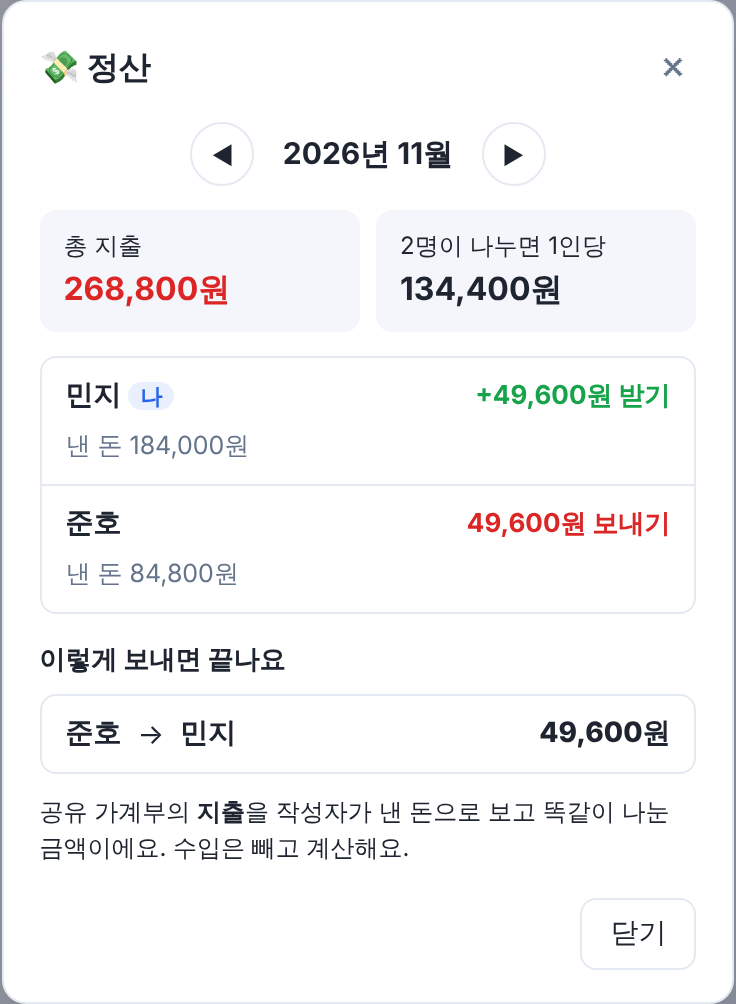
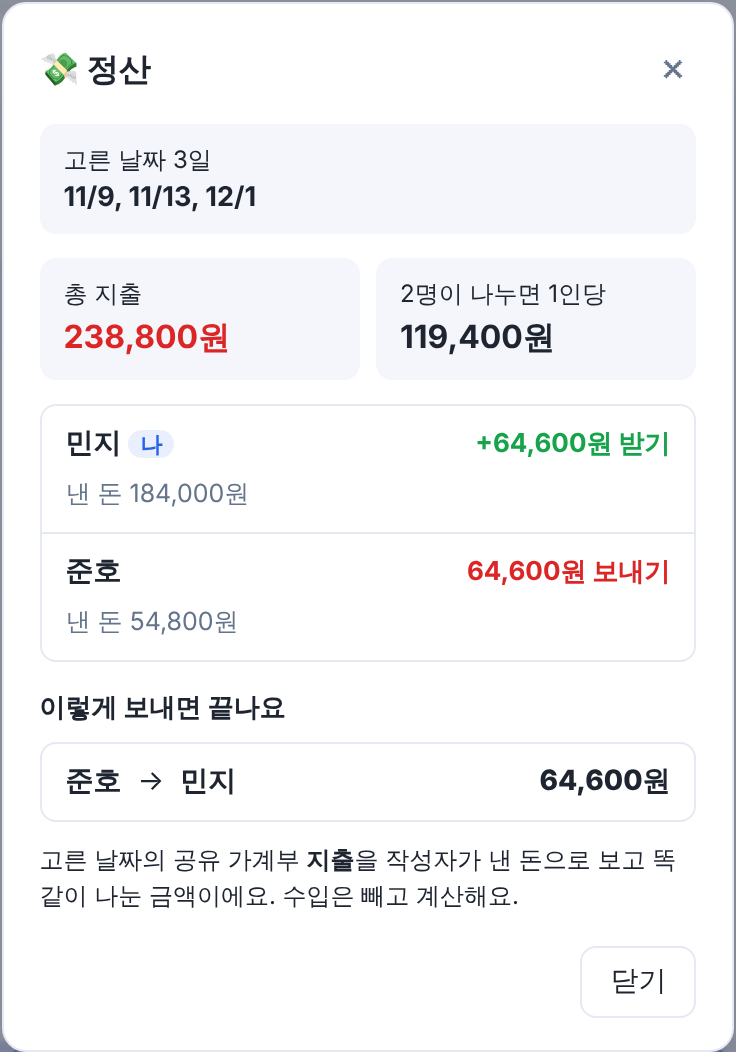
feat: 정산을 달력에서 날짜 골라서 하도록 변경
- [💸 정산] 버튼을 캘린더 바로 위로, 누르면 날짜 선택 모드 (가계부 보기로 전환, 눌러서 ✔ 체크, 다른 달도 가능)
- 하단 바: N일 선택 · 지출 합계, [정산하기] → 고른 날짜의 지출만으로 정산 결과
- 고른 날짜는 저장하지 않음, DB 변경 없음
- 서비스 소개·README 문구와 정산 스크린샷 갱신

Claude-Session: https://claude.ai/code/session_01Q8h5sWYYD7dknJRFNMgfCv

diff --git a/src/main/resources/static/app/pages/ledger/ledger.page.js b/src/main/resources/static/app/pages/ledger/ledger.page.js
@@ -155,6 +155,8 @@ export default function LedgerPage(options = {}) {
         editingEventId: null,
         viewMode: localStorage.getItem(VIEW_MODE_KEY) === 'list' ? 'list' : 'calendar',
         mode: localStorage.getItem(MODE_KEY) === 'schedule' ? 'schedule' : 'money',
+        // 💸 정산 날짜 선택 (공유 캘린더 전용, 저장하지 않음)
+        settle: { active: false, picked: new Map() }, // picked: { 'YYYY-MM-DD': [그날 지출 tx] }
     };
 
     // 🔗 다른 화면(재무 대시보드 > 자산 내역)에서 '#/calendar?date=YYYY-MM-DD&edit=ID'로 들어오면
@@ -274,6 +276,7 @@ export default function LedgerPage(options = {}) {
         if (isSelected) classes.push('ledger-cell--selected');
         if (inSelectedRange) classes.push('ledger-cell--range-selected');
         if (isToday) classes.push('ledger-cell--today');
+        if (state.settle.active && state.settle.picked.has(dateStr)) classes.push('ledger-cell--settle-picked');
         if (holidayName) classes.push('ledger-cell--holiday');
         else if (weekday === 0) classes.push('ledger-cell--sunday');
         else if (weekday === 6) classes.push('ledger-cell--saturday');
@@ -389,7 +392,7 @@ export default function LedgerPage(options = {}) {
             else if (weekday === 6) dateClasses.push('ledger-list-date--saturday');
 
             return `
-            <div class="ledger-list-group${isSelected ? ' is-selected' : ''}" data-date="${dateStr}">
+            <div class="ledger-list-group${isSelected ? ' is-selected' : ''}${state.settle.active && state.settle.picked.has(dateStr) ? ' is-settle-picked' : ''}" data-date="${dateStr}">
                 <div class="ledger-list-date-row">
                     <span class="${dateClasses.join(' ')}">${dayNum}일 (${weekdayName})${holidayName ? ` · ${holidayName}` : ''}</span>
                     <span class="ledger-list-date-total">
@@ -593,6 +596,20 @@ export default function LedgerPage(options = {}) {
         render() {
             return `
             <section class="ledger-page">
+                ${isShared ? `
+                <div class="settle-start-row">
+                    <button type="button" class="btn btn-sm btn-pill" id="settleStartBtn">💸 정산</button>
+                </div>
+                <div class="settle-bar" id="settleBar" hidden>
+                    <div class="settle-bar-text">
+                        <b>정산할 날짜를 골라주세요</b>
+                        <span id="settleBarInfo">0일 선택</span>
+                    </div>
+                    <div class="settle-bar-btns">
+                        <button type="button" class="btn btn-ghost btn-sm" id="settleCancelBtn">끝내기</button>
+                        <button type="button" class="btn btn-primary btn-sm" id="settleRunBtn" disabled>정산하기</button>
+                    </div>
+                </div>` : ''}
                 <div class="card">
                     <div class="ledger-header">
                         <div class="ledger-month-nav">
@@ -722,9 +739,67 @@ export default function LedgerPage(options = {}) {
                     });
                 } else {
                     container.querySelectorAll('[data-date]').forEach(el => {
-                        el.addEventListener('click', () => selectDate(el.dataset.date));
+                        el.addEventListener('click', () => {
+                            if (state.settle.active) toggleSettleDate(el.dataset.date);
+                            else selectDate(el.dataset.date);
+                        });
                     });
                 }
+            }
+
+            /* ---------------- 💸 정산 날짜 선택 (공유 캘린더) ---------------- */
+
+            const expensesOn = (dateStr) => (state.byDate[dateStr] || []).filter(tx => tx.type === 'EXPENSE');
+
+            function updateSettleBar() {
+                if (!isShared) return;
+                const { active, picked } = state.settle;
+                $('settleBar').hidden = !active;
+                $('settleStartBtn').hidden = active;
+                document.body.classList.toggle('is-settle-selecting', active);
+                if (!active) return;
+                let total = 0;
+                picked.forEach(list => list.forEach(tx => { total += Number(tx.amount) || 0; }));
+                $('settleBarInfo').innerHTML = picked.size
+                    ? `${picked.size}일 선택 · 지출 <b class="is-expense">${won(total)}</b>`
+                    : '0일 선택';
+                $('settleRunBtn').disabled = picked.size === 0;
+            }
+
+            function toggleSettleDate(dateStr) {
+                const { picked } = state.settle;
+                if (picked.has(dateStr)) picked.delete(dateStr);
+                else picked.set(dateStr, expensesOn(dateStr));
+                renderCalendar();
+                updateSettleBar();
+            }
+
+            function startSettle() {
+                // 정산은 가계부 기준 → 일정 보기였으면 가계부로
+                if (isSchedule()) $('modeSwitch').querySelector('button[data-mode="money"]').click();
+                state.settle.active = true;
+                state.settle.picked = new Map();
+                renderCalendar();
+                updateSettleBar();
+            }
+
+            function endSettle() {
+                state.settle.active = false;
+                state.settle.picked = new Map();
+                renderCalendar();
+                updateSettleBar();
+            }
+
+            if (isShared) {
+                $('settleStartBtn').addEventListener('click', startSettle);
+                $('settleCancelBtn').addEventListener('click', endSettle);
+                $('settleRunBtn').addEventListener('click', () => {
+                    const dates = [...state.settle.picked.keys()].sort();
+                    const transactions = dates.flatMap(d => state.settle.picked.get(d));
+                    options.onSettle?.({ dates, transactions });
+                });
+                // 다른 화면으로 나가면 선택 모드 표시(하단 바 여백) 해제
+                window.addEventListener('hashchange', () => document.body.classList.remove('is-settle-selecting'), { once: true });
             }
 
             /* ---------------- 가계부 내역을 다른 캘린더로 복사 ---------------- */
@@ -1219,6 +1294,12 @@ export default function LedgerPage(options = {}) {
 
             async function refresh() {
                 await Promise.all([loadMonth(), loadEvents()]);
+                // 정산 선택 중이면 지금 달에 고른 날짜의 지출을 최신 내역으로 갱신
+                const monthPrefix = `${state.year}-${pad2(state.month)}-`;
+                state.settle.picked.forEach((_, d) => {
+                    if (d.startsWith(monthPrefix)) state.settle.picked.set(d, expensesOn(d));
+                });
+                if (state.settle.active) updateSettleBar();
                 renderMonthSummary();
                 renderCalendar();
                 renderDayPanel();
@@ -1259,6 +1340,11 @@ export default function LedgerPage(options = {}) {
                 btn.addEventListener('click', () => {
                     const next = btn.dataset.mode === 'schedule' ? 'schedule' : 'money';
                     if (state.mode === next) return;
+                    if (state.settle.active && next === 'schedule') {
+                        state.settle.active = false;
+                        state.settle.picked = new Map();
+                        updateSettleBar();
+                    }
                     state.mode = next;
                     state.selectedRangeStart = null;
                     state.selectedRangeEnd = null;

diff --git a/src/main/resources/static/assets/css/money.css b/src/main/resources/static/assets/css/money.css
@@ -1007,10 +1007,30 @@ html.dark .ledger-list-date--saturday { color: #93c5fd; }
 .shared-members-modal { width: min(460px, 94vw); }
 
 /* 💸 정산 */
-.shared-header-btns { display: flex; flex-wrap: wrap; gap: 8px; }
+.settle-start-row { display: flex; justify-content: flex-end; margin-bottom: -8px; }
+.settle-bar {
+    position: fixed; left: 50%; bottom: max(12px, env(safe-area-inset-bottom)); transform: translateX(-50%);
+    z-index: 60; width: min(560px, calc(100vw - 24px));
+    display: flex; align-items: center; justify-content: space-between; gap: 10px;
+    padding: 10px 12px 10px 16px; border-radius: 14px;
+    background: var(--bg-elevated); border: 1px solid var(--brand); box-shadow: var(--shadow-md);
+}
+.settle-bar[hidden] { display: none; }
+.settle-bar-text { display: flex; flex-direction: column; gap: 2px; min-width: 0; font-size: 13px; }
+.settle-bar-text > b { font-size: 13.5px; }
+.settle-bar-btns { display: flex; gap: 6px; flex: none; }
+body.is-settle-selecting .ledger-page { padding-bottom: 80px; }
+.ledger-cell--settle-picked, .ledger-list-group.is-settle-picked {
+    position: relative; background: rgba(22, 163, 74, .12); border-color: #16a34a; box-shadow: 0 0 0 1px #16a34a inset;
+}
+.ledger-cell--settle-picked::after {
+    content: '✔'; position: absolute; top: 3px; right: 4px; font-size: 11px; font-weight: 800; color: #16a34a;
+}
+html.dark .ledger-cell--settle-picked, html.dark .ledger-list-group.is-settle-picked { background: rgba(22, 163, 74, .22); }
+.settle-dates { display: flex; flex-direction: column; gap: 2px; margin-bottom: 12px; padding: 10px 12px; border-radius: var(--radius-sm); background: var(--bg); font-size: 13.5px; word-break: keep-all; }
+.settle-dates .hint { font-size: 12px; }
 .shared-settle-modal { width: min(460px, 94vw); }
 .shared-settle-modal .history-modal-body { max-height: min(66vh, 600px); overflow-y: auto; }
-.settle-nav { display: flex; align-items: center; justify-content: center; gap: 14px; margin-bottom: 12px; font-size: 15px; }
 .settle-empty { text-align: center; padding: 18px 0; }
 .settle-summary { display: grid; grid-template-columns: 1fr 1fr; gap: 8px; margin-bottom: 12px; }
 .settle-summary > div { display: flex; flex-direction: column; gap: 2px; padding: 10px 12px; border-radius: var(--radius-sm); background: var(--bg); }

diff --git a/src/main/resources/static/app/pages/about/about.page.js b/src/main/resources/static/app/pages/about/about.page.js
@@ -42,7 +42,7 @@ export default function AboutPage() {
             <div class="about-feature-text">
               <h3>👨👩👧 공유 캘린더</h3>
               <p>가족·연인·룸메이트와 가계부와 일정을 함께 쓰는 캘린더를 만들어보세요. 친구를 초대하면 수락한 사람끼리 같은 달력을 보고, 내역마다 누가 썼는지 이름표가 붙습니다. 내역은 꾹 눌러 끌어서 순서를 바꿀 수 있어요.</p>
-              <p>💸 [정산]을 누르면 그 달 지출을 누가 얼마 냈는지 모아서, 똑같이 나누려면 누가 누구에게 얼마를 보내면 되는지 바로 계산해줘요.</p>
+              <p>💸 [정산]을 누르고 달력에서 정산할 날짜를 고르면(여행 기간처럼 여러 날, 다른 달도 가능), 그날들 지출을 누가 얼마 냈는지 모아서 똑같이 나누려면 누가 누구에게 얼마를 보내면 되는지 바로 계산해줘요.</p>
               <p>만든 사람은 👑 관리자로 멤버 초대·캘린더 이름 변경·삭제를 맡고, 관리자 권한을 다른 멤버에게 넘길 수도 있어요. 누구나 언제든 나갈 수 있고, 내 개인 가계부 통계와는 따로 계산됩니다.</p>
             </div>
             <div class="about-feature-imgs">

diff --git a/TODO.md b/TODO.md
@@ -6,7 +6,7 @@
 ## 대기
 
 - [ ] 2026-11-14 **📊 월 예산 & 남은 돈 게이지** — 카테고리별/전체 한 달 예산을 정하고 사용률을 보여줌 (예: 식비 30만 원 중 21만 원, 70%). 상단 게이지 옆이나 자산 흐름 화면, 80% 넘으면 색 변경. (기능 추천 1번)
-- [x] 2026-11-14 **💸 공유 캘린더 정산 (누가 얼마 냈나)** — ✅ 2026-11-14 구현 (DB 변경 없음, 기존 내역으로 계산만) — 결정: 공유 캘린더 상단 [💸 정산] → 창에서 달 선택(기본: 보고 있는 달), 지출만 똑같이 나눔(수입 제외), 나누는 사람 = 지금 멤버 + 그 달 지출을 쓴 사람(나간 사람 포함), 보내는 횟수 최소로 'A → B 얼마' 표시 — 공유 캘린더의 작성자 기록으로 그 달 각자 낸 금액과 'A가 B에게 얼마' 정산을 자동 계산. (기능 추천 2번)
+- [x] 2026-11-14 **💸 공유 캘린더 정산 (누가 얼마 냈나)** — ✅ 2026-11-14 구현 (DB 변경 없음, 기존 내역으로 계산만) — 결정: 지출만 똑같이 나눔(수입 제외), 나누는 사람 = 지금 멤버 + 그 달 지출을 쓴 사람(나간 사람 포함), 보내는 횟수 최소로 'A → B 얼마' 표시. 수정(같은 날, 반영 전): [💸 정산] 버튼을 캘린더 바로 위로, 누르면 날짜 선택 모드(가계부 보기로 전환, 날짜를 누르면 ✔ 체크만, 다른 달도 가능, 하단 바에 'N일 선택 · 지출 OO원' + [정산하기]/[끝내기]), 고른 날짜의 지출만으로 정산, 고른 날짜는 저장 안 함 — 공유 캘린더의 작성자 기록으로 그 달 각자 낸 금액과 'A가 B에게 얼마' 정산을 자동 계산. (기능 추천 2번)
 - [ ] 2026-11-14 **🔔 일정 알림 (푸시)** — 홈 화면 앱(PWA) 웹 푸시로 일정 알림 (예: 내일 10:00 치과), 공유 캘린더 새 일정·내역 알림. (기능 추천 3번)
 - [ ] 2026-11-14 **📈 월별 비교 / 연간 리포트** — 지난달 대비 카테고리 증감, 올해 월별 지출 막대그래프, 많이 쓴 카테고리 TOP 3. 자산 흐름 화면에 탭으로. (기능 추천 4번)
 - [ ] 2026-11-14 **🔁 반복 항목 관리 화면** — 매달 반복(월급·월세·구독료 등)을 한 화면에서 모아 보고 끝내기·금액 변경, 구독료 합계. (기능 추천 5번)

diff --git a/README.md b/README.md
@@ -23,7 +23,7 @@
 - ⏱ **실시간 급여·지출 게이지** — 상단바에서 근무 시간에 맞춰 차오르는 월급과 이번 달 지출을 한눈에
 - 📅 **가계부 캘린더** — 매일 수입/지출을 달력에 바로 기록, 매달 반복되는 월급·월세는 자동 등록
 - 🗓 **일정 캘린더** — 같은 화면에서 [가계부]/[일정] 전환, 기간/시간/색상 지정, 달력·목록 두 가지 보기
-- 👨👩👧 **공유 캘린더** — 가족·연인과 가계부·일정을 함께 쓰는 캘린더. 초대·수락, 작성자 표시, 💸 정산(그 달 지출을 똑같이 나눠 누가 누구에게 얼마), 꾹 눌러 순서 바꾸기, 👑 관리자(멤버 관리·이름 변경·삭제·권한 넘기기), 나가기, 개인 통계와 분리
+- 👨👩👧 **공유 캘린더** — 가족·연인과 가계부·일정을 함께 쓰는 캘린더. 초대·수락, 작성자 표시, 💸 정산(달력에서 고른 날짜의 지출을 똑같이 나눠 누가 누구에게 얼마), 꾹 눌러 순서 바꾸기, 👑 관리자(멤버 관리·이름 변경·삭제·권한 넘기기), 나가기, 개인 통계와 분리
 - 📈 **자산 흐름** — 흐름(Sankey) 차트로 이번 달 수입 → 지출을 시각화, 총수입·총지출·잔액 요약
 - 🧾 **자산 내역** — 날짜별 한 줄 목록(누르면 수정·삭제), 전체/수입/지출 보기, 검색(기간: 전체·연별·월별·주별·직접 입력 / 카테고리 / 메모), 📌 기본 기간 핀(기기 간 유지)
 - 👫 **친구** — 아이디·닉네임으로 친구를 찾아 연결하고, 친구와 바로 공유 캘린더 만들기
